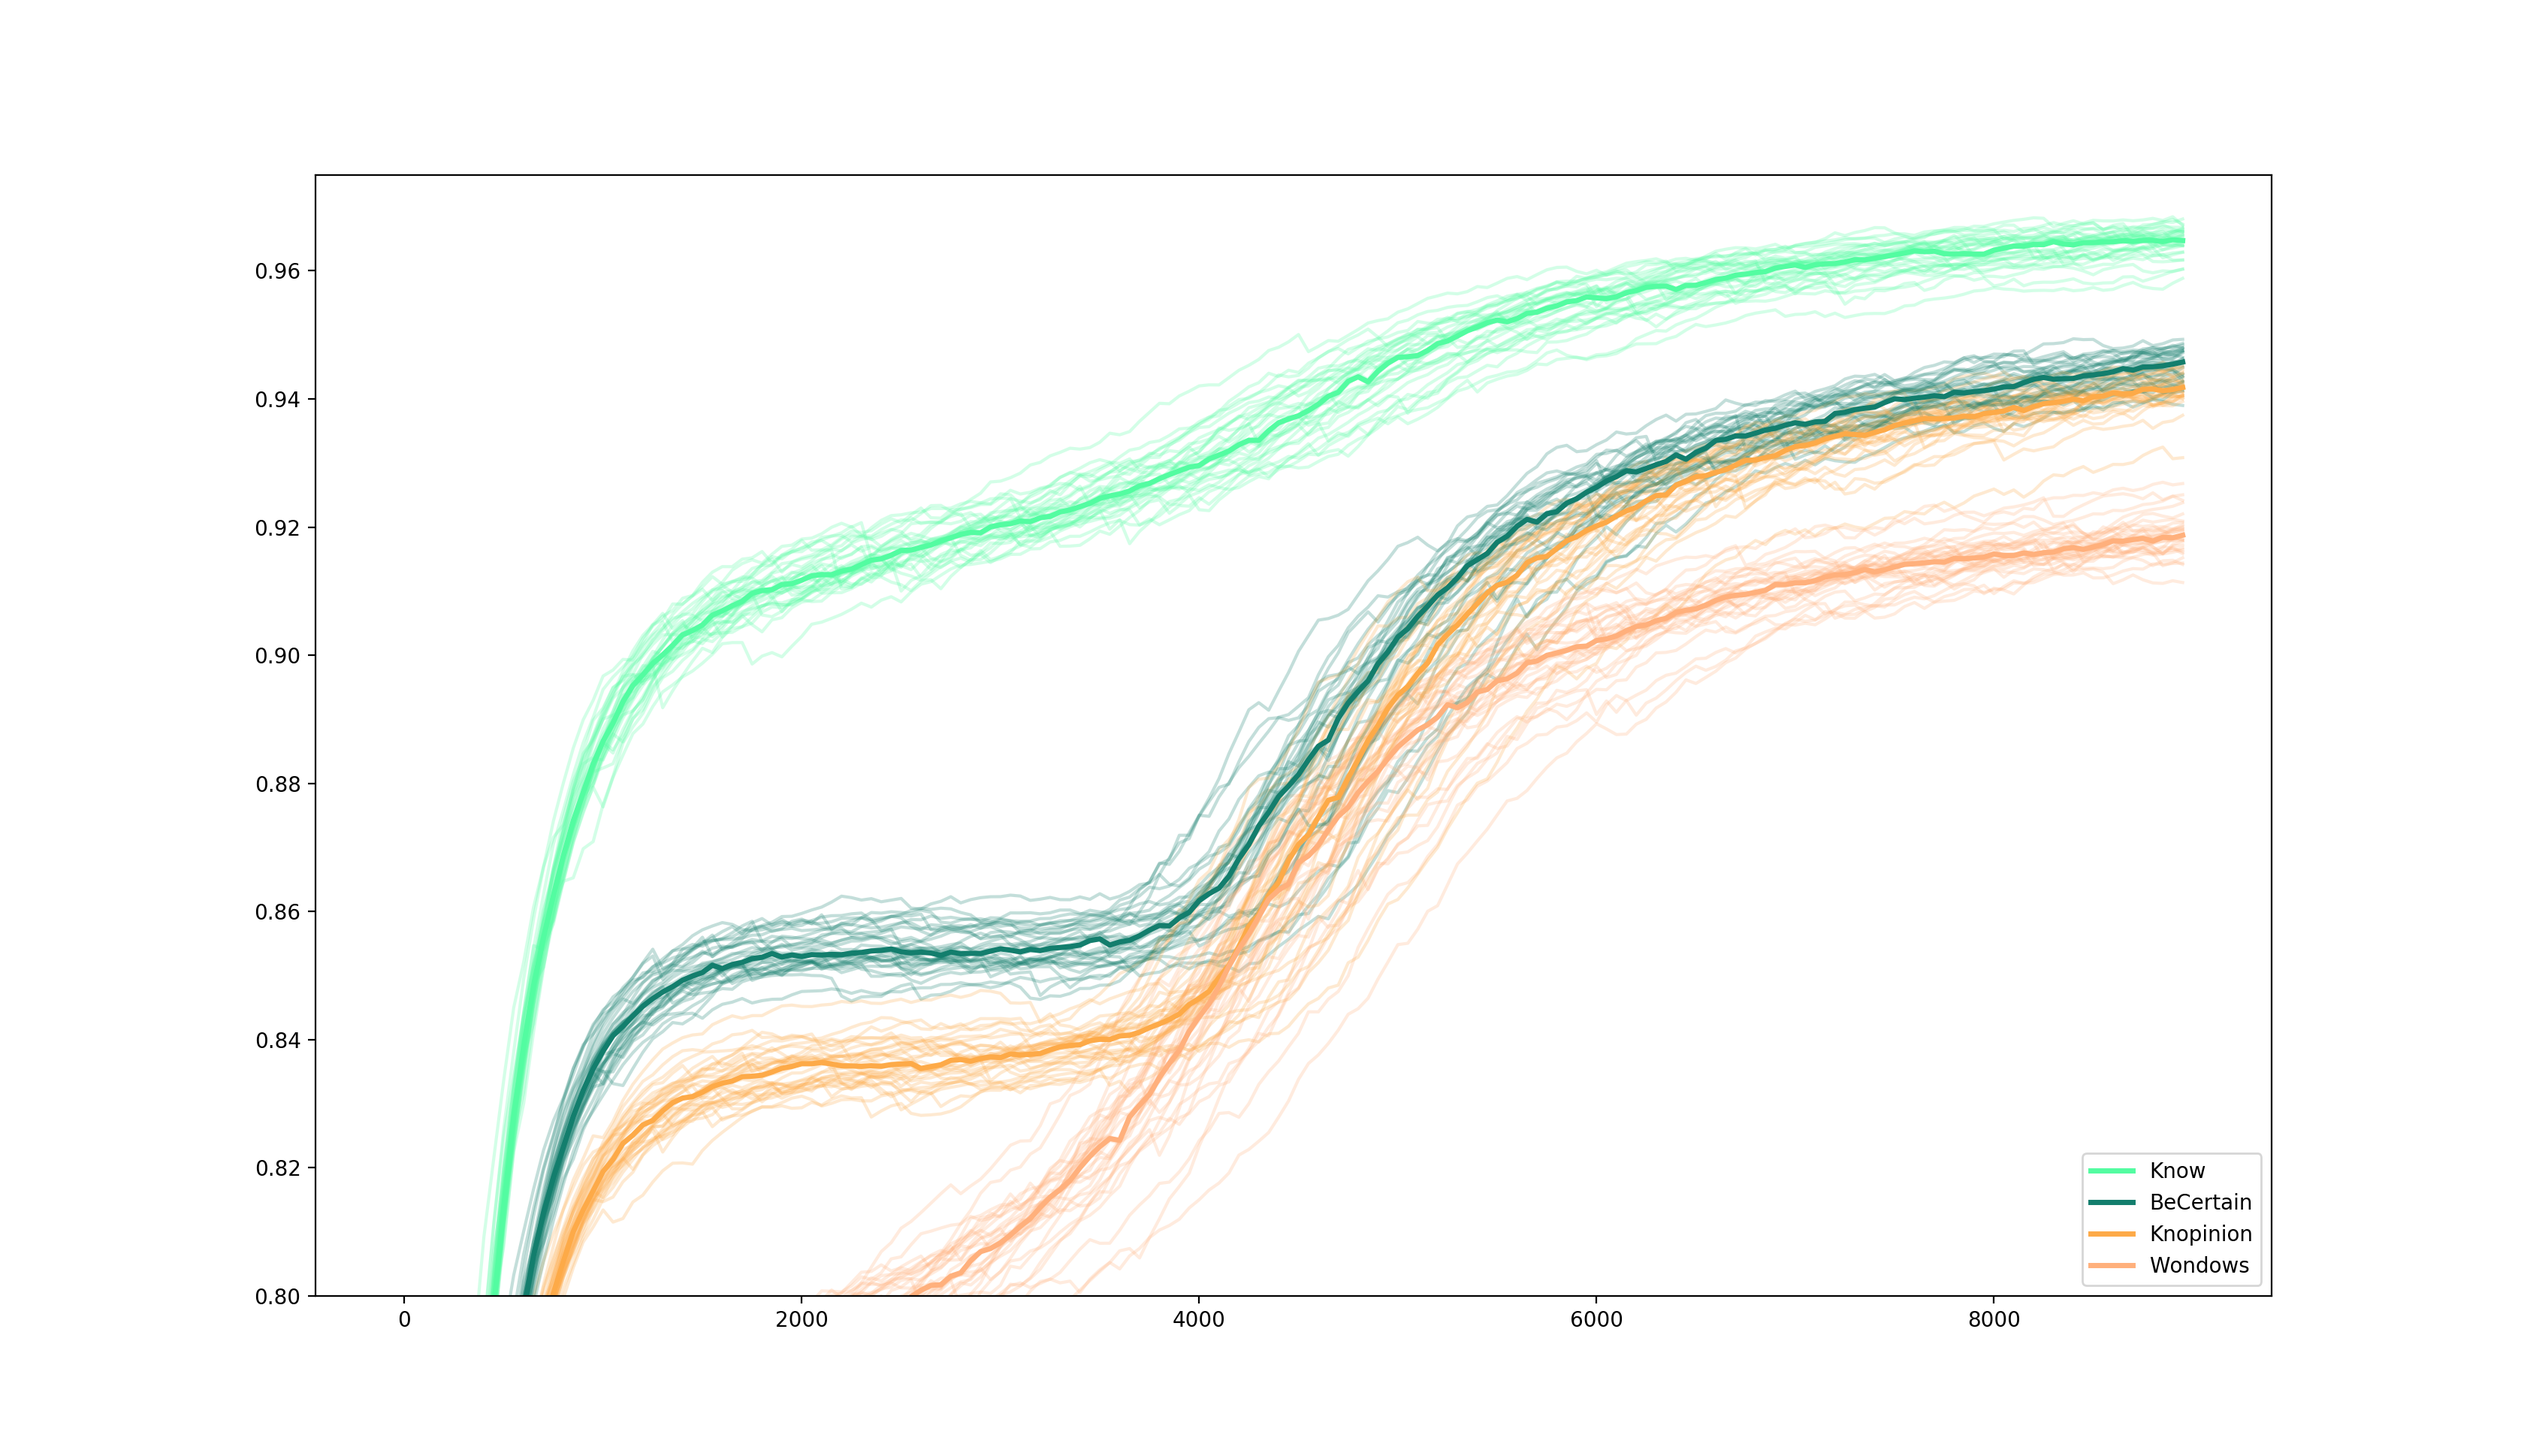
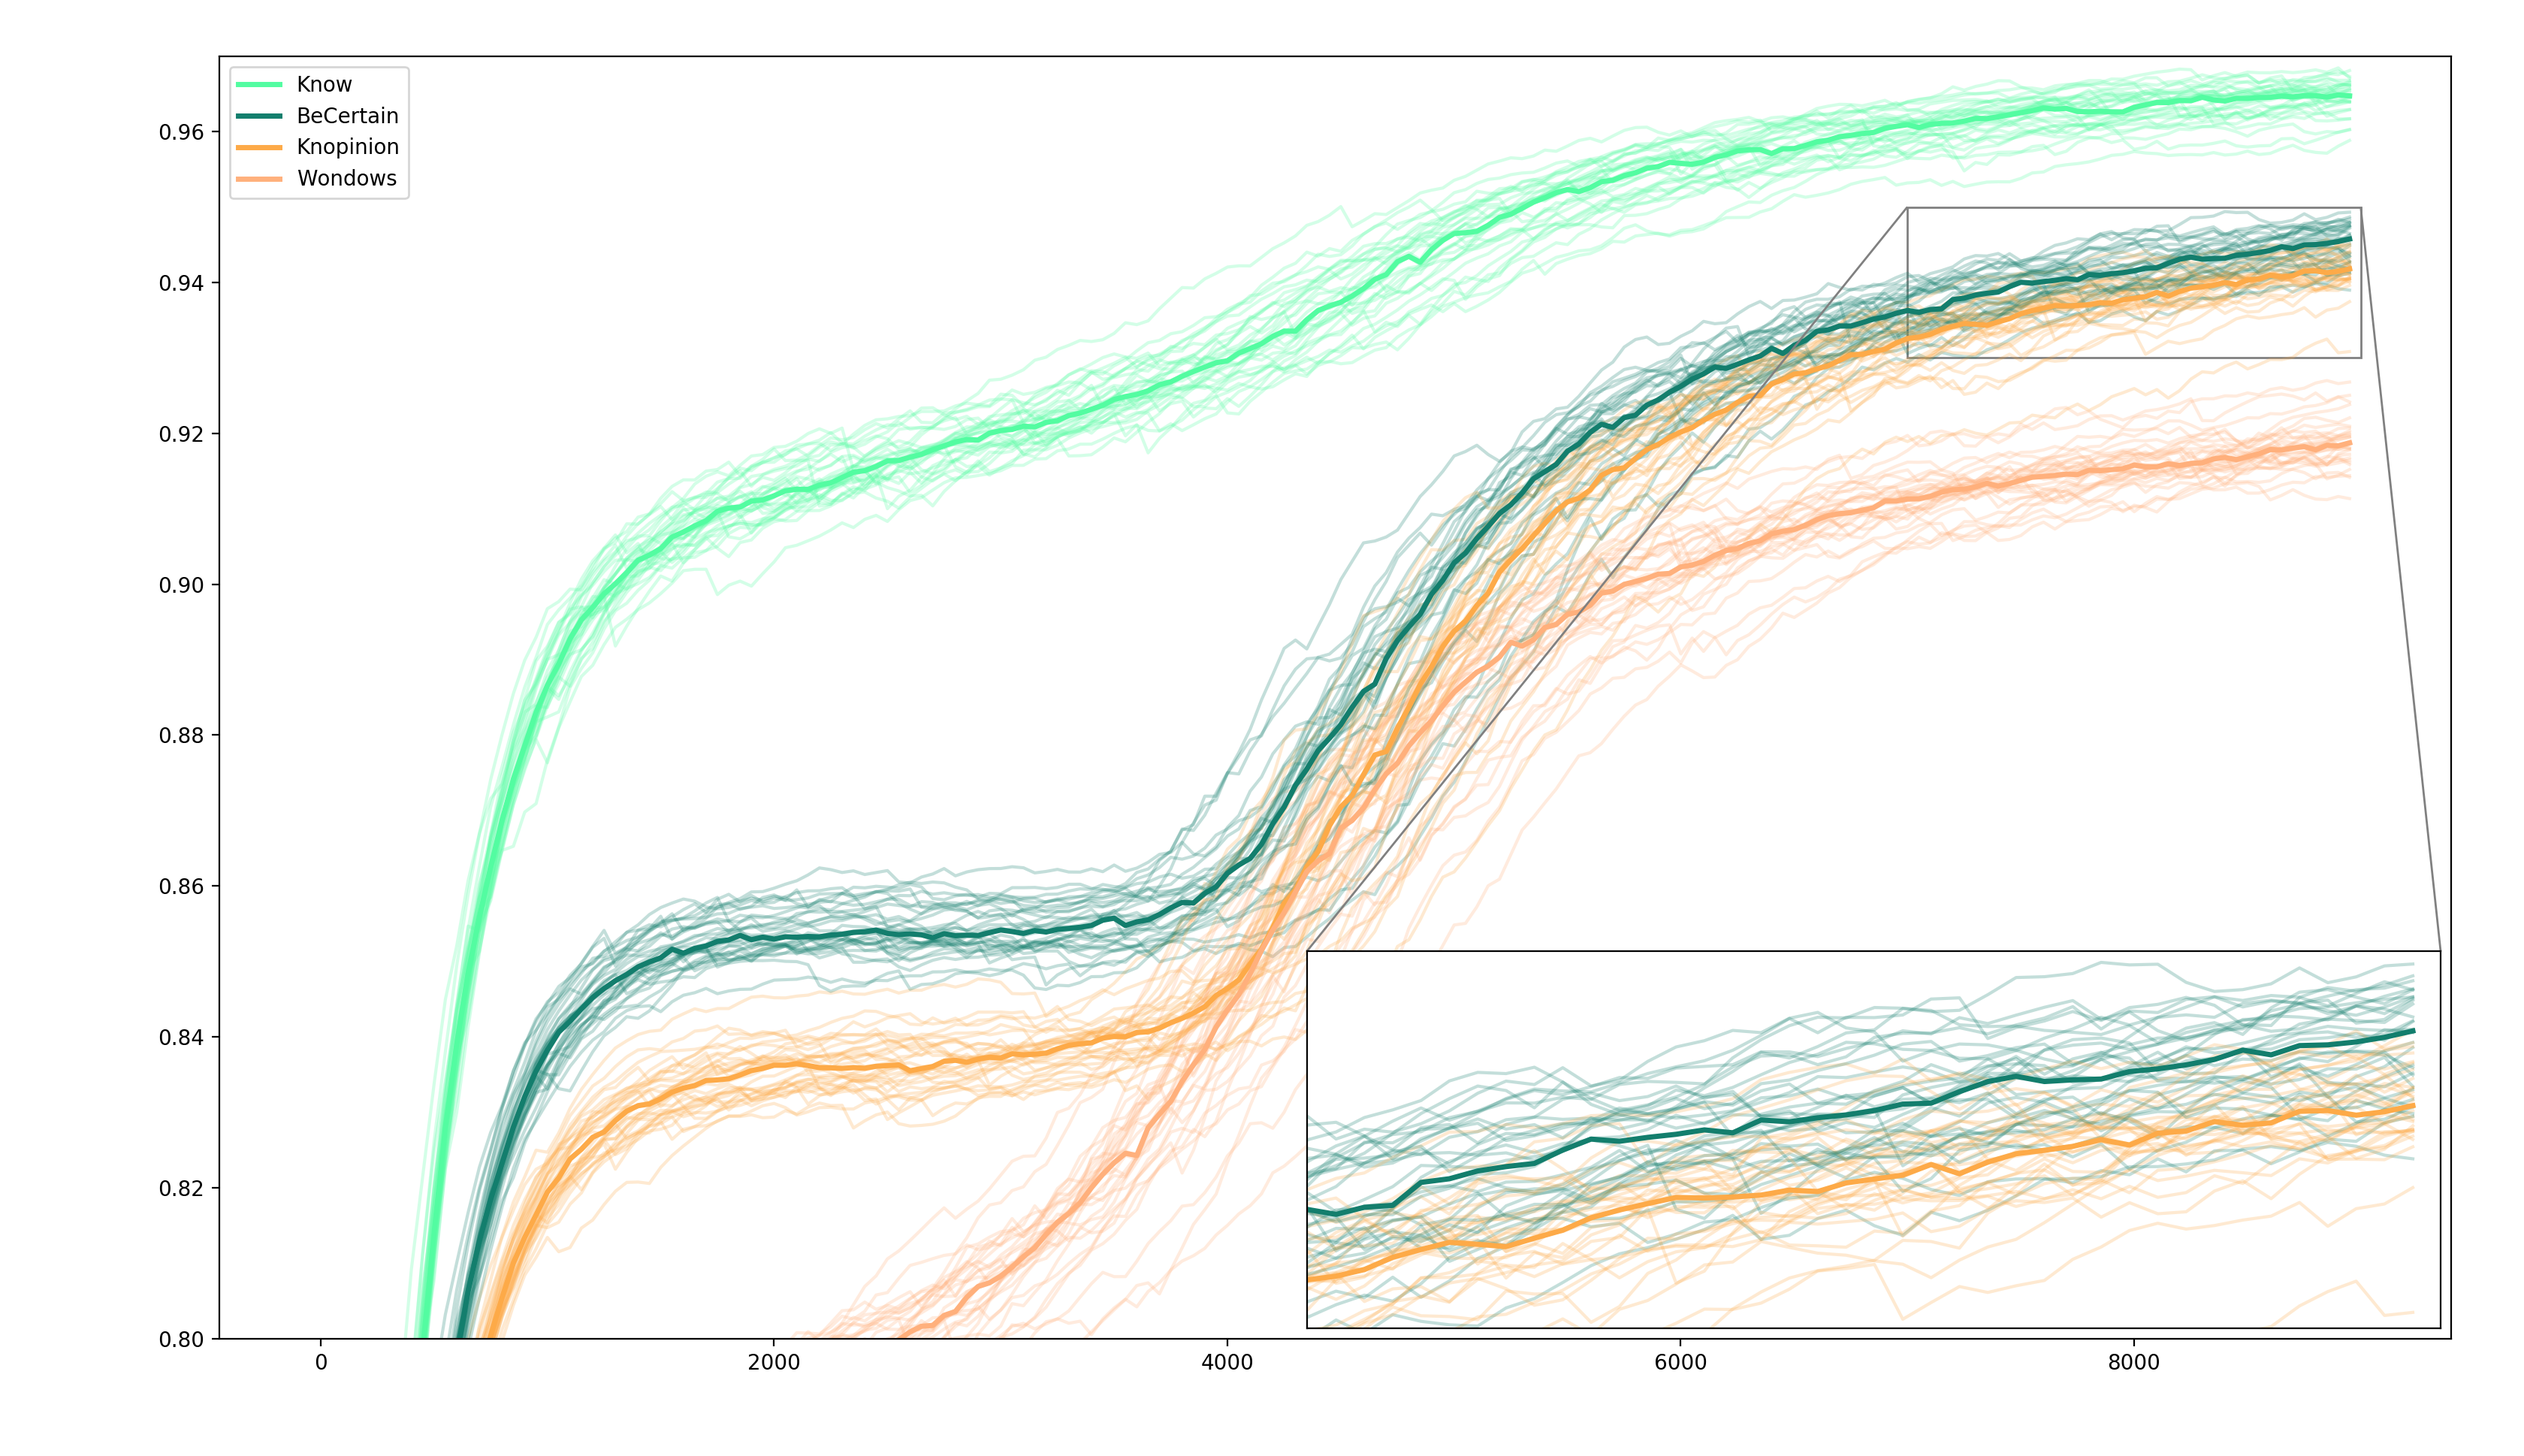
new plot with inset

diff --git a/analysis.py b/analysis.py
@@ -19,6 +19,9 @@ import itertools as it
 import numpy as np
 import scipy.stats as stats
 from matplotlib import pyplot as plt
+from mpl_toolkits.axes_grid1.inset_locator import zoomed_inset_axes
+from mpl_toolkits.axes_grid1.inset_locator import mark_inset
+
 import util
 import verbs
 
@@ -56,8 +59,10 @@ def experiment_analysis(path, verbs, trials=range(30), plots=True):
         make_boxplots(convergence_points, verbs)
         make_boxplots(final_points, verbs)
         # make_barplots(convergence_points, verbs)
-        make_plot(data, verbs, ylim=(0.8, 0.975), threshold=None)
-        make_plot(data, verbs, xmin=6000, ylim=(0.9, 0.975), threshold=None)
+        make_plot(data, verbs, ylim=(0.8, 0.97), threshold=None,
+                  inset={'zoom': 2.5,
+                         'xlim': (7000, 9000),
+                         'ylim': (0.93, 0.95)})
 
     pairs = list(it.combinations(verbs, 2))
     for pair in pairs:
@@ -191,7 +196,8 @@ def get_max_steps(data):
     return max_val
 
 
-def make_plot(data, verbs, ylim=None, xmin=None, threshold=None):
+def make_plot(data, verbs, ylim=None, xlim=None, threshold=None, loc=2,
+              inset=None):
     """Makes a line plot of the accuracy of trials by quantifier, color coded,
     and with the medians also plotted.
 
@@ -202,13 +208,15 @@ def make_plot(data, verbs, ylim=None, xmin=None, threshold=None):
     """
     assert len(verbs) <= len(COLORS)
 
+    fig, ax = plt.subplots()
+
     trials_by_verb = [[] for _ in range(len(verbs))]
-    for trial in data.keys():
+    for trial in data:
         steps = data[trial]['global_step'].values
         for idx in range(len(verbs)):
             trials_by_verb[idx].append(smooth_data(
                 data[trial][verbs[idx].__name__ + '_accuracy'].values))
-            plt.plot(steps, trials_by_verb[idx][-1],
+            ax.plot(steps, trials_by_verb[idx][-1],
                      COLORS[idx], alpha=0.25)
 
     # plot median lines
@@ -217,25 +225,47 @@ def make_plot(data, verbs, ylim=None, xmin=None, threshold=None):
     # get x-axis of longest trial
     longest_x = get_max_steps(data)
     for idx in range(len(verbs)):
-        plt.plot(longest_x,
-                 medians_by_verb[idx],
-                 COLORS[idx],
-                 label=verbs[idx].__name__,
-                 linewidth=2.5)
+        ax.plot(longest_x,
+                medians_by_verb[idx],
+                COLORS[idx],
+                label=verbs[idx].__name__,
+                linewidth=2.5)
 
     if threshold:
         max_x = max([len(ls) for ls in medians_by_verb])
-        plt.plot(longest_x, [threshold for _ in range(max_x)],
-                 linestyle='dashed', color='grey', alpha=0.5)
+        ax.plot(longest_x, [threshold for _ in range(max_x)],
+                linestyle='dashed', color='grey', alpha=0.5)
 
     if ylim:
-        plt.ylim(ylim)
+        ax.set_ylim(ylim)
 
-    if xmin:
-        _, xmax = plt.xlim()
-        plt.xlim((xmin, xmax))
+    if xlim:
+        # _, xmax = plt.xlim()
+        ax.set_xlim(xlim)
 
-    plt.legend(loc=4)
+    if loc:
+        ax.legend(loc=loc)
+
+    if inset:
+        axins = zoomed_inset_axes(ax, inset['zoom'], loc=4)
+        for trial in data:
+            steps = data[trial]['global_step'].values
+            for idx in range(len(verbs)):
+                axins.plot(steps, trials_by_verb[idx][trial],
+                           COLORS[idx], alpha=0.25)
+        for idx in range(len(verbs)):
+            axins.plot(longest_x,
+                     medians_by_verb[idx],
+                     COLORS[idx],
+                     label=verbs[idx].__name__,
+                     linewidth=2.5)
+        axins.set_xlim(inset['xlim'])
+        axins.set_ylim(inset['ylim'])
+        axins.set_xticks([])
+        axins.set_yticks([])
+
+    mark_inset(ax, axins, loc1=1, loc2=2, fc="none", ec="0.5")
+
     plt.tight_layout()
     plt.show()
 
